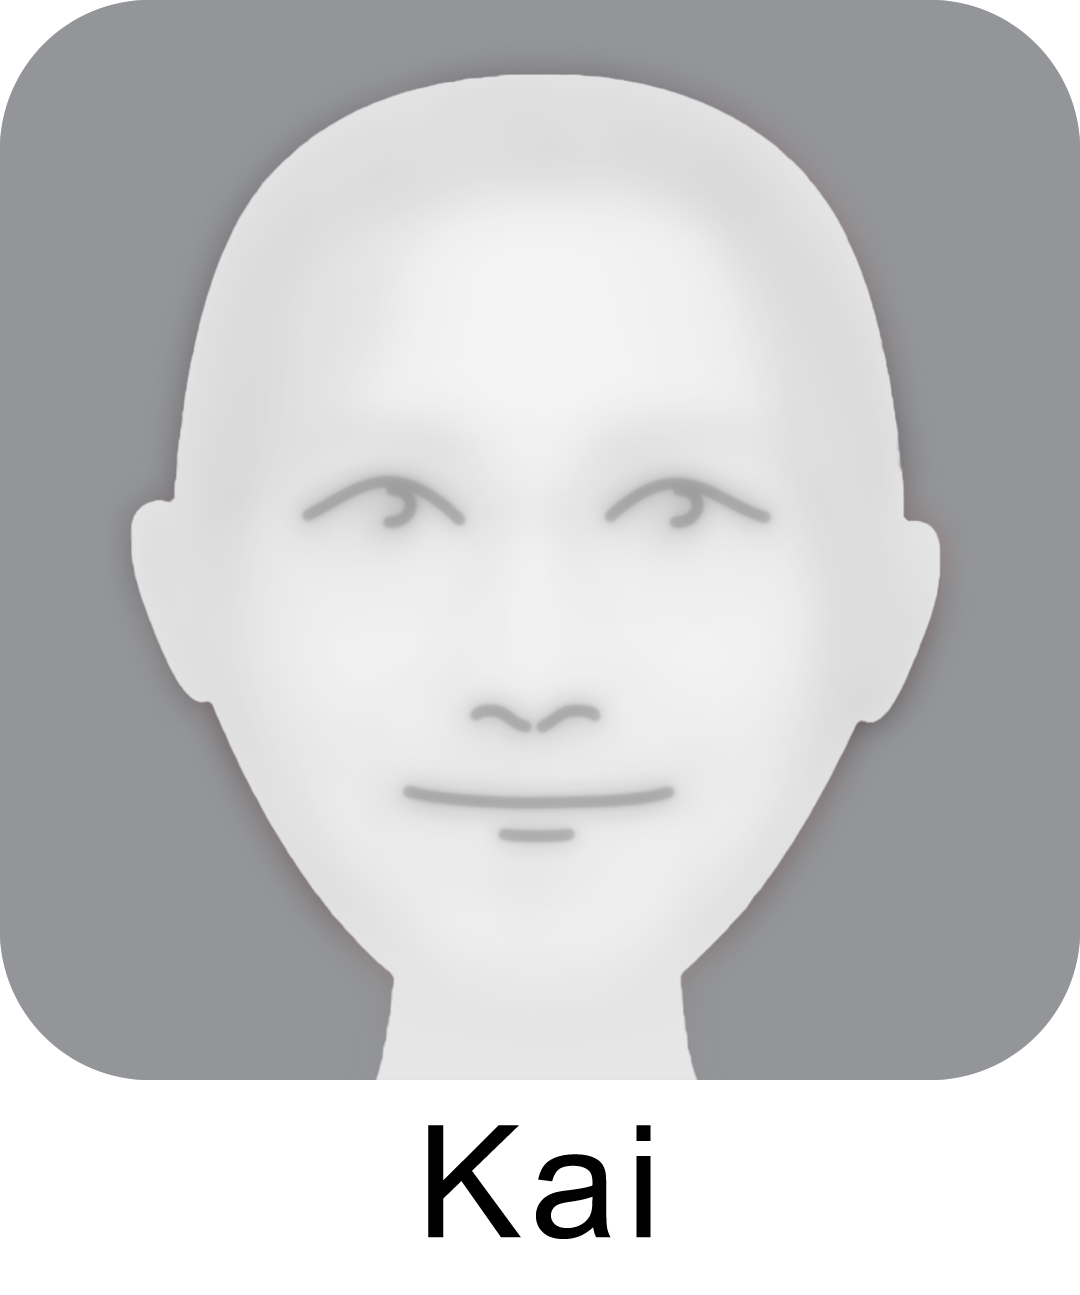
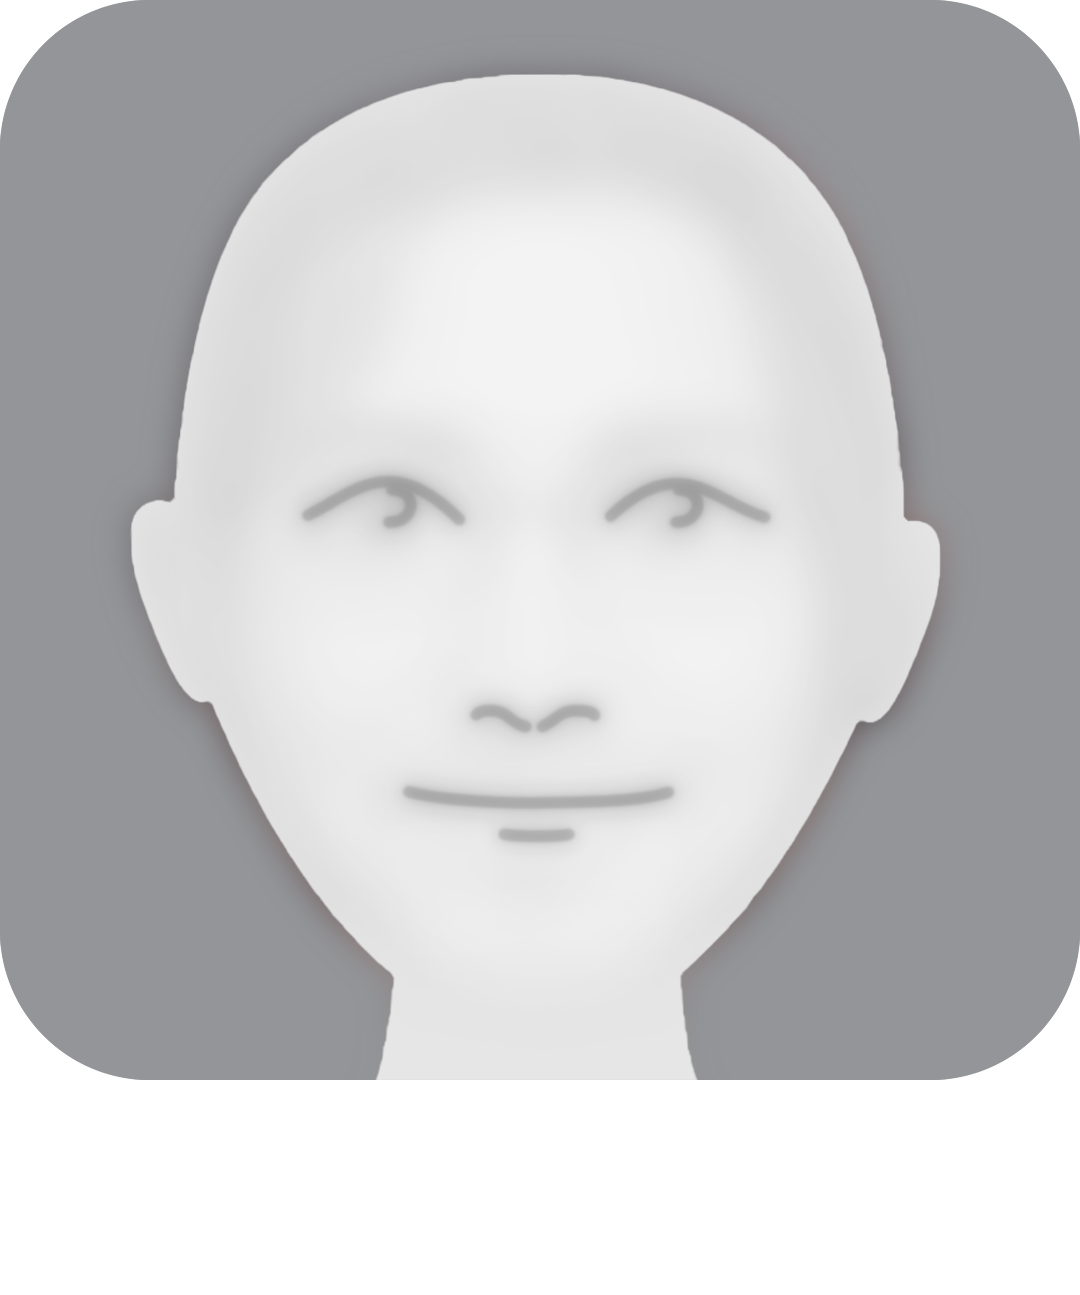
Continue setting up HumBERT
Remove Kai. Update view (remove personas, etc.)

Changed region(s): [[0.3972, 0.8649, 0.6111, 0.9575]]

diff --git a/view/public/index.html b/view/public/index.html
@@ -1,21 +1,19 @@
 <!DOCTYPE html>
 <html lang="en">
-  <head>
-    <meta charset="utf-8" />
-    <link rel="icon" href="%PUBLIC_URL%/favicon.ico" />
-    <meta name="viewport" content="width=device-width, initial-scale=1" />
-    <meta name="theme-color" content="#000000" />
-    <meta
-      name="description"
-      content="Web site created using create-react-app"
-    />
-    <link rel="apple-touch-icon" href="%PUBLIC_URL%/logo192.png" />
-    <!--
+
+<head>
+  <meta charset="utf-8" />
+  <link rel="icon" href="%PUBLIC_URL%/favicon.ico" />
+  <meta name="viewport" content="width=device-width, initial-scale=1" />
+  <meta name="theme-color" content="#000000" />
+  <meta name="description" content="Web site created using create-react-app" />
+  <link rel="apple-touch-icon" href="%PUBLIC_URL%/logo192.png" />
+  <!--
       manifest.json provides metadata used when your web app is installed on a
       user's mobile device or desktop. See https://developers.google.com/web/fundamentals/web-app-manifest/
     -->
-    <link rel="manifest" href="%PUBLIC_URL%/manifest.json" />
-    <!--
+  <link rel="manifest" href="%PUBLIC_URL%/manifest.json" />
+  <!--
       Notice the use of %PUBLIC_URL% in the tags above.
       It will be replaced with the URL of the `public` folder during the build.
       Only files inside the `public` folder can be referenced from the HTML.
@@ -24,8 +22,8 @@
       work correctly both with client-side routing and a non-root public URL.
       Learn how to configure a non-root public URL by running `npm run build`.
     -->
-    <style>
-     iframe {
+  <style>
+    iframe {
       width: 100%;
       height: 96.5%;
       border-bottom-left-radius: 5px;
@@ -35,12 +33,13 @@
       top: 0px;
       left: 0px;
     }
+
     .box {
       position: fixed;
       margin: 0.54% 0px;
       left: 54.5%;
       align: right;
-      background-color:#ffffff;
+      background-color: #ffffff;
       border-style: solid;
       border-width: 1px;
       border-color: #B8BABA;
@@ -52,12 +51,13 @@
       width: 44.8%;
       margin-right: 0.3%;
     }
+
     .circle {
       position: fixed;
       margin: 4.5% 0px;
       /* 80px */
       top: 59.55%;
-      background-color:#ffffff;
+      background-color: #ffffff;
       border-color: #B8BABA;
       border-radius: 5px;
       border-style: solid;
@@ -68,75 +68,85 @@
       height: 30.5%;
       width: 53.15%;
     }
+
     *[data-tooltip] {
-    position: relative;
+      position: relative;
     }
+
     *[data-tooltip]::after {
-    content: attr(data-tooltip);
-    position: absolute;
+      content: attr(data-tooltip);
+      position: absolute;
 
-    top: -5px;
-    right: -10px;
-    width: 100%;
-    pointer-events: none;
-    opacity: 0;
-    -webkit-transition: opacity .15s ease-in-out;
-    -moz-transition: opacity .15s ease-in-out;
-    -ms-transition: opacity .15s ease-in-out;
-    -o-transition: opacity .15s ease-in-out;
-    transition: opacity .15s ease-in-out;
+      top: -5px;
+      right: -10px;
+      width: 100%;
+      pointer-events: none;
+      opacity: 0;
+      -webkit-transition: opacity .15s ease-in-out;
+      -moz-transition: opacity .15s ease-in-out;
+      -ms-transition: opacity .15s ease-in-out;
+      -o-transition: opacity .15s ease-in-out;
+      transition: opacity .15s ease-in-out;
 
-    display: block;
-    font-size: 16px;
-    font-style: justify;
-    font-family: arial;
-    color: #4A4A4A;
-    line-height: 18px;
-    background: #ffffff;
-    padding: 8px 8px;
-    border-radius: 5px;
-    border: 1px solid #c0c0c0;
-    box-shadow: 2px 4px 5px rgba(91, 81, 81, 0.4);
+      display: block;
+      font-size: 16px;
+      font-style: justify;
+      font-family: arial;
+      color: #4A4A4A;
+      line-height: 18px;
+      background: #ffffff;
+      padding: 8px 8px;
+      border-radius: 5px;
+      border: 1px solid #c0c0c0;
+      box-shadow: 2px 4px 5px rgba(91, 81, 81, 0.4);
     }
 
     *[data-tooltip]:hover::after {
-    opacity: 1;
+      opacity: 1;
     }
 
     #div1 {
-    display: inline-block;
-    }
-    #div2 {
-    display: inline-block;
-    }
-    #div3 {
-    display: inline-block;
-    }
-    #div4 {
-    display: inline-block;
-    }
-    #div5 {
-    display: inline-block;
+      display: inline-block;
     }
 
-    </style>
-    <title>React App</title>
-  </head>
-  <body>
-    <noscript>You need to enable JavaScript to run this app.</noscript>
-    <div>
+    #div2 {
+      display: inline-block;
+    }
+
+    #div3 {
+      display: inline-block;
+    }
+
+    #div4 {
+      display: inline-block;
+    }
+
+    #div5 {
+      display: inline-block;
+    }
+  </style>
+  <title>React App</title>
+</head>
+
+<body>
+  <noscript>You need to enable JavaScript to run this app.</noscript>
+  <div>
     <div id="root">
     </div>
 
 
-     <div class=circle>
+    <div class=circle>
       <div style="height: 16px; font-family: Arial; color: #4A4A4A; border-top-left-radius: 5px;
-      border-top-right-radius: 5px; background-color: #EBECED; padding: 8px; border-bottom: 1px solid #B8BABA;">Personas</div>
+      border-top-right-radius: 5px; background-color: #EBECED; padding: 8px; border-bottom: 1px solid #B8BABA;">
+        HumBERT</div>
 
-       <div id="div1" data-tooltip="Kai is conditioned on text data collected from people regardless of their age and gender." style="padding-left: 7%; padding-right: 1%;padding-top: 5%; width:16%;">
-        <img src="kai.png" width=80% alt="Kai" style=""> </img>
-       </div>
-       <div id="div2" data-tooltip="Robert is conditioned on text data collected from males aged 40-69." style="padding-left: 1%; padding-right: 1%; padding-top: 5%;width:16%;">
+      <div id="div1"
+        data-tooltip="HumBERT is conditioned on text data collected from people regardless of their age and gender."
+        style="padding-left: 30%; padding-right: 30%; padding-top: 5%; width:40%;">
+        <img src="kai.png" width=80% alt="HumBERT"
+          style="display: block; margin-left: auto;margin-right: auto; width: 50%;"> </img>
+      </div>
+      <!--<div id="div2" data-tooltip="Robert is conditioned on text data collected from males aged 40-69." style="padding-left: 1%; padding-right: 1%; padding-top: 5%;width:16%;">
         <img src="robert.png" alt="Robert" width="80%" style=""> </img>
        </div>
        <div id="div3" data-tooltip="Gabrielle is conditioned on text data collected from females aged 40-69." style="padding-left: 1%x; padding-right: 1%; padding-top: 5%;width:16%;">
@@ -147,23 +157,22 @@
        </div>
        <div id="div5" data-tooltip="Olivia is conditioned on text data collected from females aged 18-39." style="padding-left: 1%; padding-right: 1%; padding-top: 5%;width:16%; ">
         <img src="olivia.png" width="80%" style=""> </img>
-       </div>
-       </div>
+       </div>-->
+    </div>
 
 
 
-  <div class=box>
+    <div class=box>
 
-     <div style="height: 16px; font-family: Arial; color: #4A4A4A; border-top-left-radius: 5px;
-     border-top-right-radius: 5px; background-color: #EBECED; padding: 8px; border-bottom: 1px solid #B8BABA;">Protocol viewer</div>
+      <div style="height: 16px; font-family: Arial; color: #4A4A4A; border-top-left-radius: 5px;
+     border-top-right-radius: 5px; background-color: #EBECED; padding: 8px; border-bottom: 1px solid #B8BABA;">Protocol
+        viewer</div>
 
-     <iframe id="iframe" allowtransparency="true" style="background: #ffffff; position: sticky"
-     src="SATprotocols.pdf#toolbar=0&navpanes=0&scrollbar=0&view=FitW"
-     frameborder="0" position="left"
-     >
-     </iframe>
+      <iframe id="iframe" allowtransparency="true" style="background: #ffffff; position: sticky"
+        src="SATprotocols.pdf#toolbar=0&navpanes=0&scrollbar=0&view=FitW" frameborder="0" position="left">
+      </iframe>
 
-   </div>
+    </div>
 
     <!--
       This HTML file is a template.
@@ -187,7 +196,8 @@
     <!-- <div height="100vh" width='49%' align="right"> -->
 
 
-  <!-- </div> -->
+    <!-- </div> -->
 
-  </body>
+</body>
+
 </html>

diff --git a/view/src/config.js b/view/src/config.js
@@ -9,7 +9,7 @@ import FeedbackOptions from "./widgets/options/GeneralOptions/FeedbackOptions";
 import EmotionOptions from "./widgets/options/GeneralOptions/EmotionOptions";
 import EventOptions from "./widgets/options/GeneralOptions/EventOptions";
 import YesNoProtocolOptions from "./widgets/options/GeneralOptions/YesNoProtocolsOptions";
-const botName = "SATbot";
+const botName = "HumBERT";
 
 const config = {
   botName: botName,
@@ -29,9 +29,11 @@ const config = {
     askingForProtocol: false
   },
   customComponents: {
-    header: () => <div style={{height: '16px', fontFamily: 'Arial', borderTopLeftRadius: '5px', borderTopRightRadius: '5px',
-    background: '#EBECED', color: '#4A4A4A', padding: '8px', borderBottom: '1px solid #B8BABA'}}>SATbot</div>,
-    botAvatar: () => <div class="react-chatbot-kit-chat-bot-avatar-container" style={{fontFamily: 'Arial'}}><p class="react-chatbot-kit-chat-bot-avatar-letter">S</p></div>
+    header: () => <div style={{
+      height: '16px', fontFamily: 'Arial', borderTopLeftRadius: '5px', borderTopRightRadius: '5px',
+      background: '#EBECED', color: '#4A4A4A', padding: '8px', borderBottom: '1px solid #B8BABA'
+    }}>Conversation</div>,
+    botAvatar: () => <div class="react-chatbot-kit-chat-bot-avatar-container" style={{ fontFamily: 'Arial' }}><p class="react-chatbot-kit-chat-bot-avatar-letter">S</p></div>
   },
 
   widgets: [

diff --git a/model/rule_based_model.py b/model/rule_based_model.py
@@ -18,11 +18,7 @@ class ModelDecisionMaker:
     def __init__(self):
 
         self.kai = pd.read_csv('/Users/zeenapatel/dev/HumBERT/model/kai.csv', encoding='ISO-8859-1') # changed path
-        #self.robert = pd.read_csv('/Users/zeenapatel/dev/HumBERT/model/robert.csv', encoding='ISO-8859-1')
-        #self.gabrielle = pd.read_csv('/Users/zeenapatel/dev/HumBERT/model/gabrielle.csv', encoding='ISO-8859-1')
-        #self.arman = pd.read_csv('/Users/zeenapatel/dev/HumBERT/model/arman.csv', encoding='ISO-8859-1')
-        #self.olivia = pd.read_csv('/Users/zeenapatel/dev/HumBERT/model/olivia.csv', encoding='ISO-8859-1')
-
+        
         # Titles from workshops (Title 7 adapted to give more information)
         self.PROTOCOL_TITLES = [
             "0: None",
@@ -98,32 +94,12 @@ class ModelDecisionMaker:
         self.QUESTIONS = {
 
             "ask_name": {
-               "model_prompt": "Please enter your first name:",
+               "model_prompt": "Hi! I’m Humbert, a self-employed laughter assistant. May I know your name?",
                "choices": {
                    "open_text": lambda user_id, db_session, curr_session, app: self.save_name(user_id)
                },
                "protocols": {"open_text": []},
            },
-
-
-           "choose_persona": {
-              "model_prompt": "Who would you like to talk to?" + " \N{grinning face with smiling eyes}",
-              "choices": {
-                  "Kai": lambda user_id, db_session, curr_session, app: self.get_kai(user_id),
-                  #"Robert": lambda user_id, db_session, curr_session, app: self.get_robert(user_id),
-                  #"Gabrielle": lambda user_id, db_session, curr_session, app: self.get_gabrielle(user_id),
-                  #"Arman": lambda user_id, db_session, curr_session, app: self.get_arman(user_id),
-                  #"Olivia": lambda user_id, db_session, curr_session, app: self.get_olivia(user_id),
-              },
-              "protocols": {
-                  "Kai": [],
-                  #"Robert": [],
-                  #"Gabrielle": [],
-                  #"Arman": [],
-                  #"Olivia": [],
-              },
-          },
-
 
             "opening_prompt": {
                 "model_prompt": lambda user_id, db_session, curr_session, app: self.get_opening_prompt(user_id),
@@ -549,34 +525,18 @@ class ModelDecisionMaker:
     # Takes next item in queue, or moves on to suggestions
     # if all have been checked
 
-    def get_kai(self, user_id):
-       self.chosen_personas[user_id] = "Kai"
-       self.datasets[user_id] = self.kai
-       return "opening_prompt"
-    def get_robert(self, user_id):
-       self.chosen_personas[user_id] = "Robert"
-       self.datasets[user_id] = self.robert
-       return "opening_prompt"
-    def get_gabrielle(self, user_id):
-       self.chosen_personas[user_id] = "Gabrielle"
-       self.datasets[user_id] = self.gabrielle
-       return "opening_prompt"
-    def get_arman(self, user_id):
-       self.chosen_personas[user_id] = "Arman"
-       self.datasets[user_id] = self.arman
-       return "opening_prompt"
-    def get_olivia(self, user_id):
-       self.chosen_personas[user_id] = "Olivia"
-       self.datasets[user_id] = self.olivia
-       return "opening_prompt"
-
 
     def get_opening_prompt(self, user_id):
         time.sleep(7)
         if self.users_names[user_id] == "":
-            opening_prompt = ["Hello, this is " + self.chosen_personas[user_id] + ". ", "How are you feeling today?"]
+            opening_prompt = ["Nice to speak to you. I will do my best to help you learn to laugh \N{grinning face with smiling eyes}"]
         else:
-            opening_prompt = ["Hello " + self.users_names[user_id] + ", this is " + self.chosen_personas[user_id] + ". ", "How are you feeling today?"]
+            opening_prompt = ["Nice to speak to you " + self.users_names[user_id] + " . I will do my best to help you learn to laugh \N{grinning face with smiling eyes}", 
+            "I assume you are already familiar with the self-initiated humorous protocols, but they are also being displayed on the right if you wish to review them at any point in our conversation.", 
+            "We will be discussing some of these today but practising these during your daily life is where you will receive the real benefit.", 
+            "The more you do, the more natural and frequent your laughter will become and the happier you will feel. Practice makes perfect!", 
+            "Anyway, enough with the intros - let’s get started!", 
+            "How are you feeling today? Try to be honest; I will not judge you!"]
         return opening_prompt
 
 
